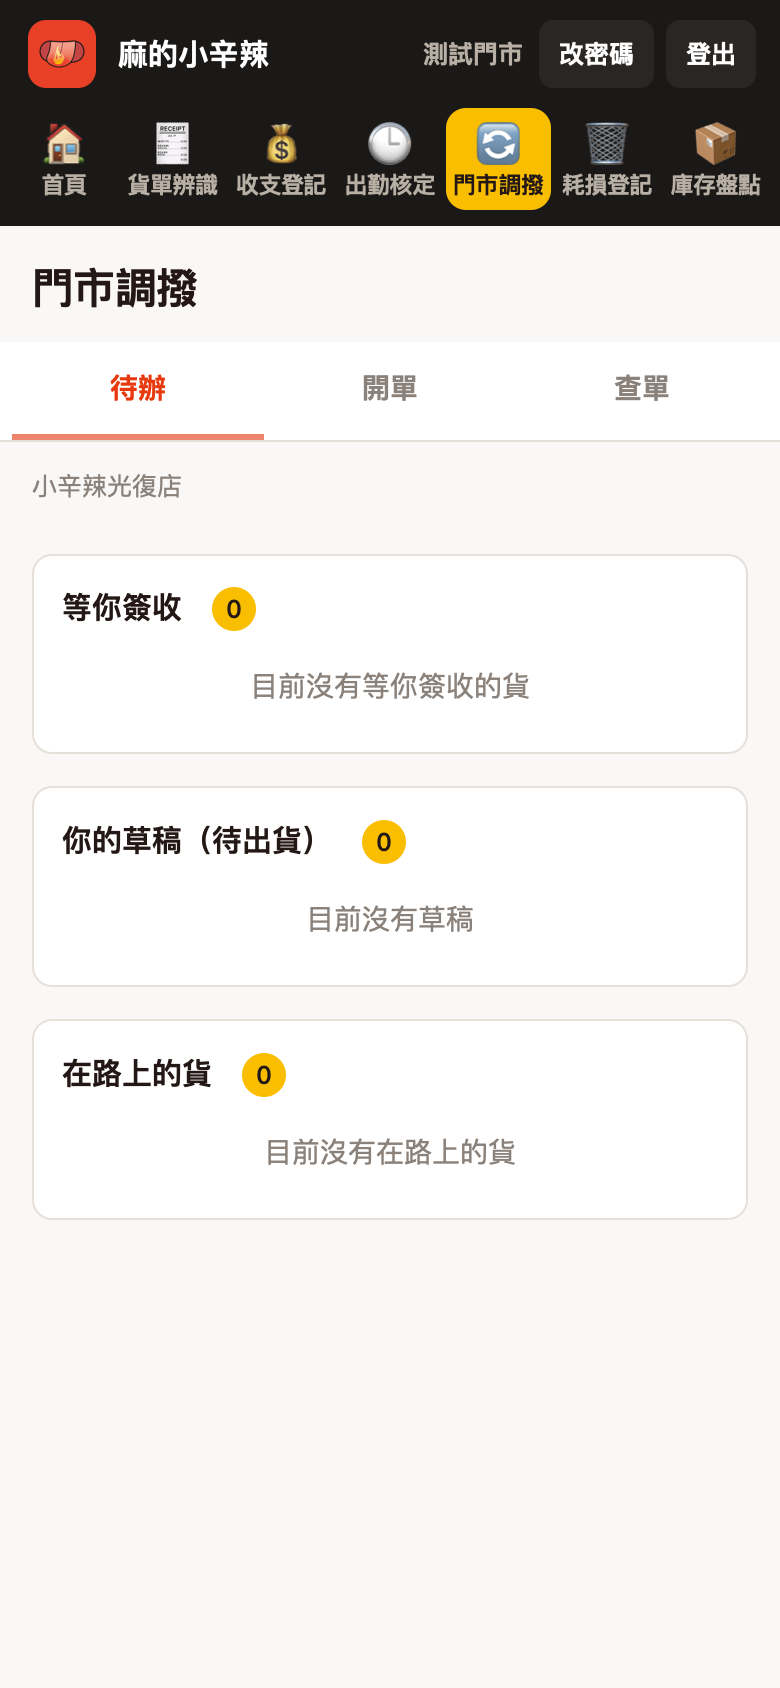
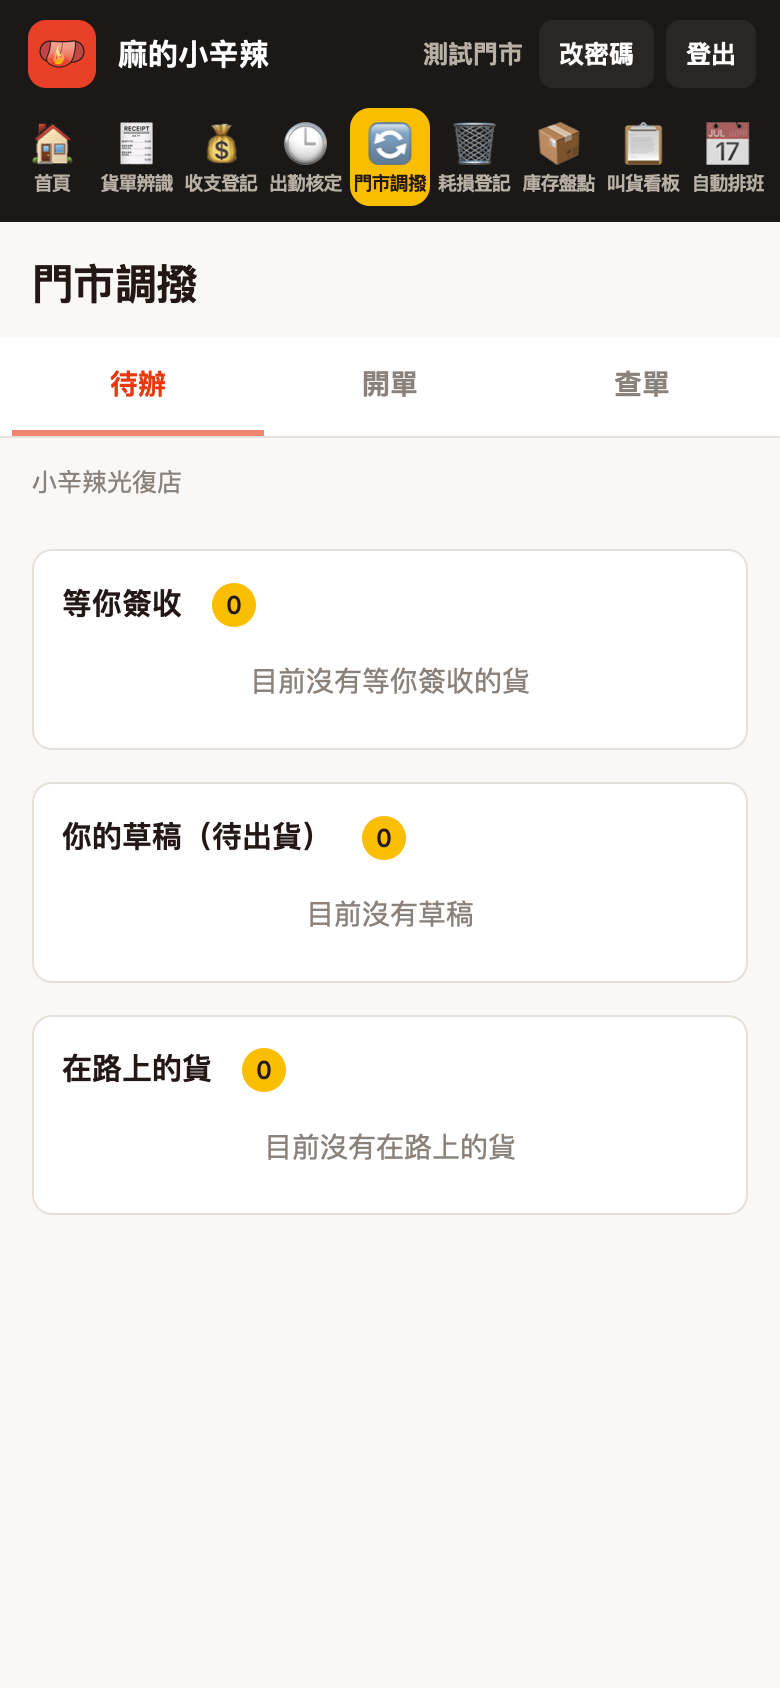
操作手冊加叫貨看板段落、截圖重拍（mala-store-ops 16ed86c）

diff --git a/js/mock.js b/js/mock.js
@@ -31,11 +31,29 @@ function boardMock(action, me, b, db) {
   if (action !== 'view') return fail('NOT_FOUND', '找不到這個功能');
   if ((((E2E().board || {}).unset) || []).includes(me.code)) return fail('FORBIDDEN', '這家店的叫貨看板帳號還沒設定，請聯絡管理者');
   db.boardN = (db.boardN || 0) + 1;
+  // 版型照營運系統重建後的叫貨看板（server/proxy/board.js onlyStore）：本店一區＋點數字看每日明細。數字是假的
+  const esc = v => String(v).replace(/[<>&"]/g, c => `&#${c.charCodeAt(0)};`);
+  const items = [['肉燥', '央廚/冷凍', 1.3, 2, '包'], ['滷豆干', '央廚/冷凍', 1.5, 4, '包'], ['鮮肉抄手', '央廚/冷凍', 7.6, 15, '包'], ['紅油', '央廚/常溫', 3.6, 8, '包'], ['麵', '自買', 10.7, 24, '包'], ['大陸妹', '自買', 9.5, 13, '斤']];
+  const details = items.map(([n, , u, , unit]) => ({ name: n, unit, total: String(u), days: [{ d: '10/09', w: '五', v: +(u * 0.45).toFixed(2) }, { d: '10/10', w: '六', v: +(u * 0.55).toFixed(2) }] }));
   const html = `<!doctype html><html lang="zh-Hant"><head><meta charset="utf-8"><meta name="viewport" content="width=device-width,initial-scale=1"><title>叫貨看板</title>
-    <style>body{font-family:-apple-system,"PingFang TC",sans-serif;margin:0;padding:16px;background:#f4f5f7;color:#0f172a}table{border-collapse:collapse;width:100%;background:#fff}td,th{border:1px solid #e2e8f0;padding:8px;text-align:left}</style></head>
-    <body><h1 id="bdMockTitle">${String(me.name).replace(/[<>&"]/g, c => `&#${c.charCodeAt(0)};`)}・叫貨看板（假資料）</h1><p id="bdMockN">第 ${db.boardN} 次讀取</p>
-    <table><tr><th>品項</th><th>本期使用</th><th>建議訂貨</th></tr><tr><td>雞腿排</td><td>42</td><td>45</td></tr><tr><td>燃麵</td><td>120</td><td>130</td></tr></table>
-    <script>document.body.dataset.js='ok'</script></body></html>`;
+    <style>*{box-sizing:border-box}body{font-family:-apple-system,"PingFang TC",sans-serif;margin:0;background:#f4f5f7;color:#0f172a}.wrap{max-width:860px;margin:0 auto;padding:16px}
+    h1{font-size:19px;margin:0 0 4px}.sub{color:#64748b;font-size:12.5px;line-height:1.6;margin:0 0 12px}.store{background:#fff;border:1px solid #e2e8f0;border-radius:12px;padding:14px}
+    h2{font-size:17px;margin:0 0 6px}.note{font-size:12.5px;color:#475569;margin:0 0 10px}table{border-collapse:collapse;width:100%}th,td{border-bottom:1px solid #eef2f6;padding:9px 6px;text-align:left;font-size:14px}
+    th{color:#64748b;font-size:12px}td small{display:block;color:#94a3b8;font-size:11px}.use-link{border:0;background:none;color:#0070f3;font:inherit;text-decoration:underline;cursor:pointer;padding:0}
+    .num{font-weight:800}.modal[hidden]{display:none}.modal{position:fixed;inset:0;display:flex;align-items:center;justify-content:center}.modal-bg{position:absolute;inset:0;background:rgba(15,23,42,.45)}
+    .modal-card{position:relative;background:#fff;border-radius:14px;padding:16px;width:min(360px,90vw)}.modal-hd{display:flex;justify-content:space-between;font-weight:800}.modal-x{border:0;background:none;font-size:20px}
+    .modal-sub{color:#64748b;font-size:12px;margin:4px 0 10px}.dd-row{display:flex;gap:8px;font-size:13px;padding:4px 0}.modal-foot{text-align:right;margin-top:8px}</style></head>
+    <body><div class="wrap"><header><h1 id="bdMockTitle">墨竹亭 · 叫貨看板（${esc(me.name)}）</h1><p class="sub">當期＝上次叫貨日到昨天。建議叫貨量僅供參考，實際下單請由店長判斷。<span id="bdMockN">（示範資料・第 ${db.boardN} 次讀取）</span></p></header>
+    <section class="store"><h2>${esc(me.name)}</h2><p class="note">下次叫貨日：10/12（週一）。點「當期使用」的數字可看每天明細。</p>
+    <table><thead><tr><th>原物料</th><th>當期使用</th><th>建議叫貨</th></tr></thead><tbody>
+    ${items.map(([n, cat, u, sug, unit], i) => `<tr><td>${n}<small>${cat}</small></td><td><button type="button" class="use-link" data-idx="${i}">${u} ${unit}</button></td><td class="num">${sug} ${unit}</td></tr>`).join('')}
+    </tbody></table></section></div>
+    <div id="ddModal" class="modal" hidden><div class="modal-bg" data-close></div><div class="modal-card"><div class="modal-hd"><span id="ddTitle"></span><button class="modal-x" type="button" data-close aria-label="關閉">×</button></div><div class="modal-sub" id="ddSub"></div><div id="ddBody"></div><div class="modal-foot" id="ddFoot"></div></div></div>
+    <script>document.body.dataset.js='ok';var DETAILS=${JSON.stringify(details).replace(/</g, '\\u003c')};
+    function showDD(i){var d=DETAILS[i];if(!d)return;document.getElementById('ddTitle').textContent=d.name;document.getElementById('ddSub').textContent='當期使用 · 這一期每天用量（共 '+d.days.length+' 天）';
+    var b=document.getElementById('ddBody');b.textContent='';d.days.forEach(function(x){var r=document.createElement('div');r.className='dd-row';r.textContent=x.d+'（'+x.w+'）　'+x.v+' '+d.unit;b.appendChild(r);});
+    document.getElementById('ddFoot').textContent='合計　'+d.total+' '+d.unit;document.getElementById('ddModal').hidden=false;}
+    document.addEventListener('click',function(e){var b=e.target.closest('.use-link');if(b){showDD(+b.dataset.idx);return;}if(e.target.closest('[data-close]'))document.getElementById('ddModal').hidden=true;});</script></body></html>`;
   return ok({ html, at: new Date().toISOString() });
 }
 function fresh() {

diff --git a/guide.html b/guide.html
@@ -36,7 +36,7 @@ footer{text-align:center;color:var(--muted);font-size:12.5px;margin-top:20px}
 <header><h1>門市操作手冊</h1><p>登入、貨單辨識、收支登記、出勤核定、耗損登記</p></header>
 <div class="wrap">
 <nav class="toc" aria-label="目錄"><b>想看哪一段</b>
-  <a href="#login">登入與改密碼</a><a href="#home">首頁</a><a href="#purchase">貨單辨識</a><a href="#cashbook">收支登記</a><a href="#duty">出勤核定</a><a href="#transfer">門市調撥</a><a href="#loss">耗損登記</a><a href="#inventory">庫存盤點</a><a href="#help">遇到問題</a></nav>
+  <a href="#login">登入與改密碼</a><a href="#home">首頁</a><a href="#purchase">貨單辨識</a><a href="#cashbook">收支登記</a><a href="#duty">出勤核定</a><a href="#transfer">門市調撥</a><a href="#loss">耗損登記</a><a href="#inventory">庫存盤點</a><a href="#board">叫貨看板</a><a href="#help">遇到問題</a></nav>
 
 <section id="login"><h2>一、登入與改密碼</h2>
   <h3>第一次登入</h3>
@@ -279,7 +279,27 @@ footer{text-align:center;color:var(--muted);font-size:12.5px;margin-top:20px}
   <figure class="shot"><img src="img/guide/25-inventory-import.jpg" width="780" height="1688" loading="lazy" alt="從舊版匯入"><figcaption>從舊版匯入</figcaption></figure>
 </section>
 
-<section id="help"><h2>九、遇到問題</h2>
+<section id="board"><h2>九、叫貨看板</h2>
+  <p>看墨竹亭總部叫貨看板上<b>自己店</b>的當期原物料使用量和建議叫貨量。營運系統會在背後幫你登入總部看板，<b>不用再輸入看板的帳號密碼</b>，也只會看到自己店的資料。</p>
+  <h3>怎麼看</h3>
+  <ol>
+    <li>點左側欄（手機是上方系統列）的 <b>叫貨看板</b>，等一下就會出現自己店的看板。</li>
+    <li>每一列是一種原物料：<b>當期使用</b>是上次叫貨日到昨天實際用掉的量，<b>建議叫貨</b>是依最近用量算出來的參考值。</li>
+    <li>點 <b>當期使用</b> 的數字（藍色有底線），會跳出這一期每天用了多少；按右上角的 <span class="btn">×</span> 或旁邊空白處關掉。</li>
+    <li>上方會寫「更新時間」。想看最新的，按 <span class="btn">重新整理</span>。</li>
+  </ol>
+  <div class="tip">建議叫貨量只是參考，實際下單請依現場庫存增減。看板的資料由總部提供，當天的用量要等當天結算後才會算進去。</div>
+  <h3>看到這些訊息時</h3>
+  <ul>
+    <li><b>叫貨看板沒有這家店的資料</b>：總部看板上沒有你們店（例如小辛辣、中央廚房），這是正常的。</li>
+    <li><b>這家店的叫貨看板帳號還沒設定</b>、<b>叫貨看板的帳號或密碼對不上</b>、<b>叫貨看板的版面改了</b>：請截圖給管理者處理。</li>
+    <li><b>叫貨看板暫時沒有回應</b>、<b>回應太久</b>：總部看板一時連不上，稍後按 <span class="btn">重新讀取</span>。</li>
+  </ul>
+  <figure class="shot"><img src="img/guide/26-board.jpg" width="780" height="1688" loading="lazy" alt="叫貨看板：本店原物料的當期使用與建議叫貨"><figcaption>叫貨看板</figcaption></figure>
+  <figure class="shot"><img src="img/guide/27-board-detail.jpg" width="780" height="1688" loading="lazy" alt="點當期使用的數字，跳出每天用量明細"><figcaption>點數字看每天明細</figcaption></figure>
+</section>
+
+<section id="help"><h2>十、遇到問題</h2>
   <ul>
     <li><b>登入不了</b>：確認門市代號、密碼。忘記密碼請找管理者重設。被鎖住請等 15 分鐘。</li>
     <li><b>左側欄看不到某個系統</b>：那項功能還沒開給你們店，請洽管理者。</li>
